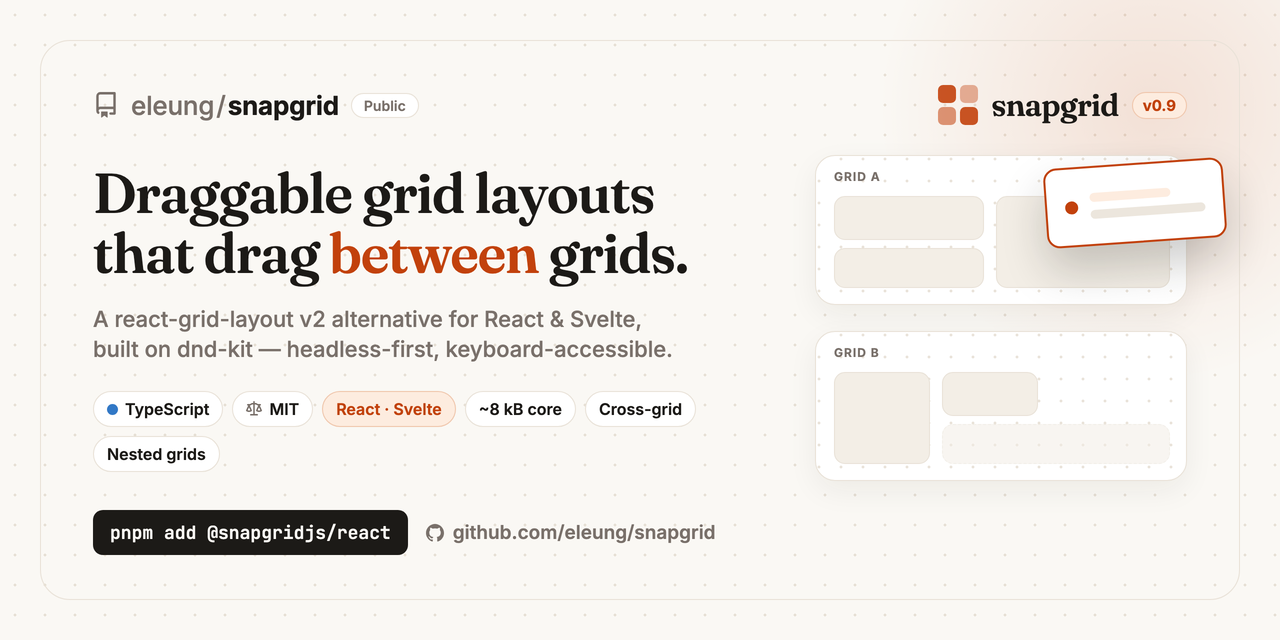
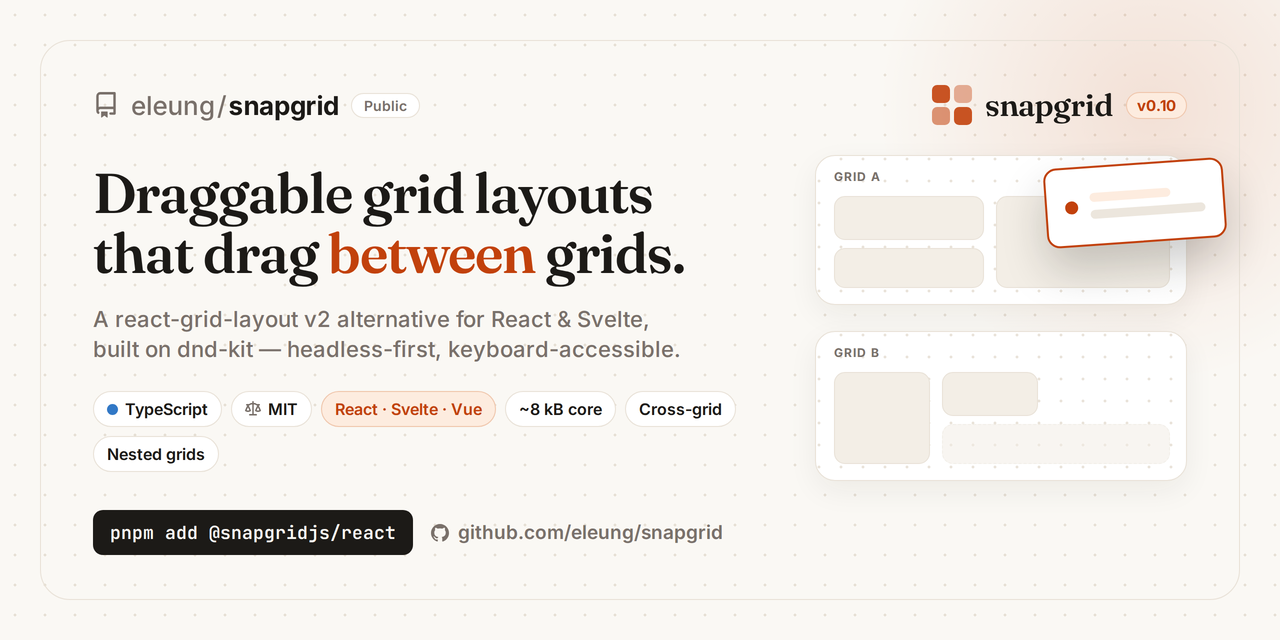
Version Packages (#55)
* Version Packages

* docs: add 0.10.0 changelog entry

---------

diff --git a/CHANGELOG.md b/CHANGELOG.md
@@ -4,6 +4,29 @@ All notable changes to this project are documented here. The format is based on
 [Keep a Changelog](https://keepachangelog.com/en/1.1.0/), and the project aims to follow
 [Semantic Versioning](https://semver.org/spec/v2.0.0.html) from 1.0 onward.
 
+## [0.10.0] - 2026-08-01
+
+Vue support. `@snapgridjs/vue` brings the same headless-first, dnd-kit-native grid to Vue 3, on the
+shared framework-free core — a grid behaves identically whichever framework renders it.
+
+### Added
+
+- **`@snapgridjs/vue`** — a Vue 3 binding for snapgrid, mirroring `@snapgridjs/react` and
+  `@snapgridjs/svelte` on the shared `@snapgridjs/core` + `@snapgridjs/dnd` engine. Headless
+  composables (`useGridContainer`, `useGridItem`, `useGridPlaceholder`, `useGridResizeHandle`,
+  `useContainerWidth`, `useResponsiveLayout`, `useGridController`, `resolveController`) and drop-in
+  components (`GridLayout`, `GridItem`, `GridPlaceholder`, `ResponsiveGridLayout`, `SnapGridGroup`)
+  deliver the same controlled drag, resize, compaction, cross-grid, nesting, keyboard accessibility
+  and dnd-kit interop as the other bindings — built on `@dnd-kit/vue`, with composables returning
+  refs and elements bound through function refs. SSR-safe (verified with no DOM present). Requires
+  Vue 3.5. See the [Vue docs](https://snapgrid.dev/vue/docs/getting-started).
+
+### Changed
+
+- Documentation now covers three bindings — guides and examples live under `/react/…`, `/svelte/…`
+  and `/vue/…`, selectable from the framework switcher — and the package READMEs document the Vue
+  binding alongside React and Svelte.
+
 ## [0.9.1] - 2026-07-24
 
 A drag keeps tracking the pointer when the page scrolls mid-drag — including dnd-kit's auto-scroll
@@ -223,6 +246,7 @@ Initial public release.
 - Documentation site (`apps/docs`) with guides, API reference, and live examples — including a
   nested-grids guide and a real-world showcase dashboard.
 
+[0.10.0]: https://github.com/eleung/snapgrid/releases/tag/%40snapgridjs/react%400.10.0
 [0.9.1]: https://github.com/eleung/snapgrid/releases/tag/%40snapgridjs/react%400.9.1
 [0.9.0]: https://github.com/eleung/snapgrid/releases/tag/%40snapgridjs/react%400.9.0
 [0.8.0]: https://github.com/eleung/snapgrid/releases/tag/%40snapgridjs/react%400.8.0

diff --git a/packages/grid-vue/CHANGELOG.md b/packages/grid-vue/CHANGELOG.md
@@ -1,0 +1,22 @@
+# @snapgridjs/vue
+
+## 0.10.0
+
+### Minor Changes
+
+- 0455f15: Add `@snapgridjs/vue` — the Vue 3 binding, built on `@dnd-kit/vue`.
+
+  Composables (`useGridContainer`, `useGridItem`, `useGridPlaceholder`, `useGridResizeHandle`,
+  `useResponsiveLayout`, `useContainerWidth`) plus the turnkey `GridLayout`,
+  `ResponsiveGridLayout`, `GridItem`, `GridPlaceholder` and `SnapGridGroup` components.
+  Same framework-free `@snapgridjs/core` + `@snapgridjs/dnd` engine as the React and Svelte
+  bindings, so a grid behaves identically whichever framework renders it: cross-grid and
+  nested dragging, keyboard a11y, resize handles, external drop, pluggable packing.
+
+  Requires `vue@^3.5`. Components ship as render functions (no SFC toolchain needed to
+  consume or build the package).
+
+### Patch Changes
+
+- @snapgridjs/core@0.10.0
+- @snapgridjs/dnd@0.10.0

diff --git a/packages/grid-svelte/CHANGELOG.md b/packages/grid-svelte/CHANGELOG.md
@@ -1,5 +1,12 @@
 # @snapgridjs/svelte
 
+## 0.10.0
+
+### Patch Changes
+
+- @snapgridjs/core@0.10.0
+- @snapgridjs/dnd@0.10.0
+
 ## 0.9.1
 
 ### Patch Changes

diff --git a/packages/grid-react/CHANGELOG.md b/packages/grid-react/CHANGELOG.md
@@ -1,5 +1,12 @@
 # @snapgridjs/react
 
+## 0.10.0
+
+### Patch Changes
+
+- @snapgridjs/core@0.10.0
+- @snapgridjs/dnd@0.10.0
+
 ## 0.9.1
 
 ### Patch Changes

diff --git a/packages/grid-extras/CHANGELOG.md b/packages/grid-extras/CHANGELOG.md
@@ -1,5 +1,11 @@
 # @snapgridjs/extras
 
+## 0.10.0
+
+### Patch Changes
+
+- @snapgridjs/core@0.10.0
+
 ## 0.9.1
 
 ### Patch Changes

diff --git a/packages/grid-dnd/CHANGELOG.md b/packages/grid-dnd/CHANGELOG.md
@@ -1,5 +1,11 @@
 # @snapgridjs/dnd
 
+## 0.10.0
+
+### Patch Changes
+
+- @snapgridjs/core@0.10.0
+
 ## 0.9.1
 
 ### Patch Changes

diff --git a/packages/grid-core/CHANGELOG.md b/packages/grid-core/CHANGELOG.md
@@ -1,5 +1,7 @@
 # @snapgridjs/core
 
+## 0.10.0
+
 ## 0.9.1
 
 ## 0.9.0
